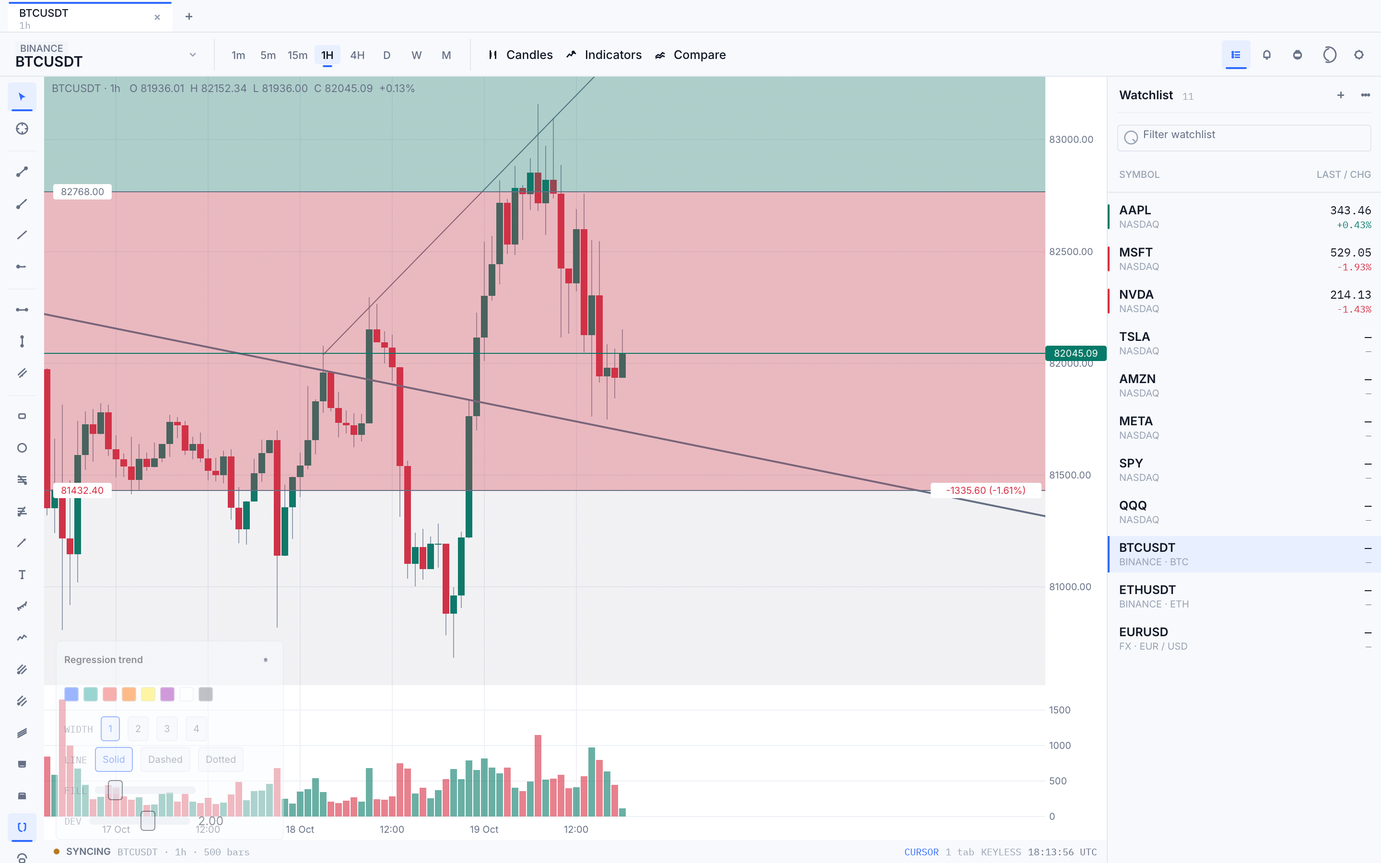
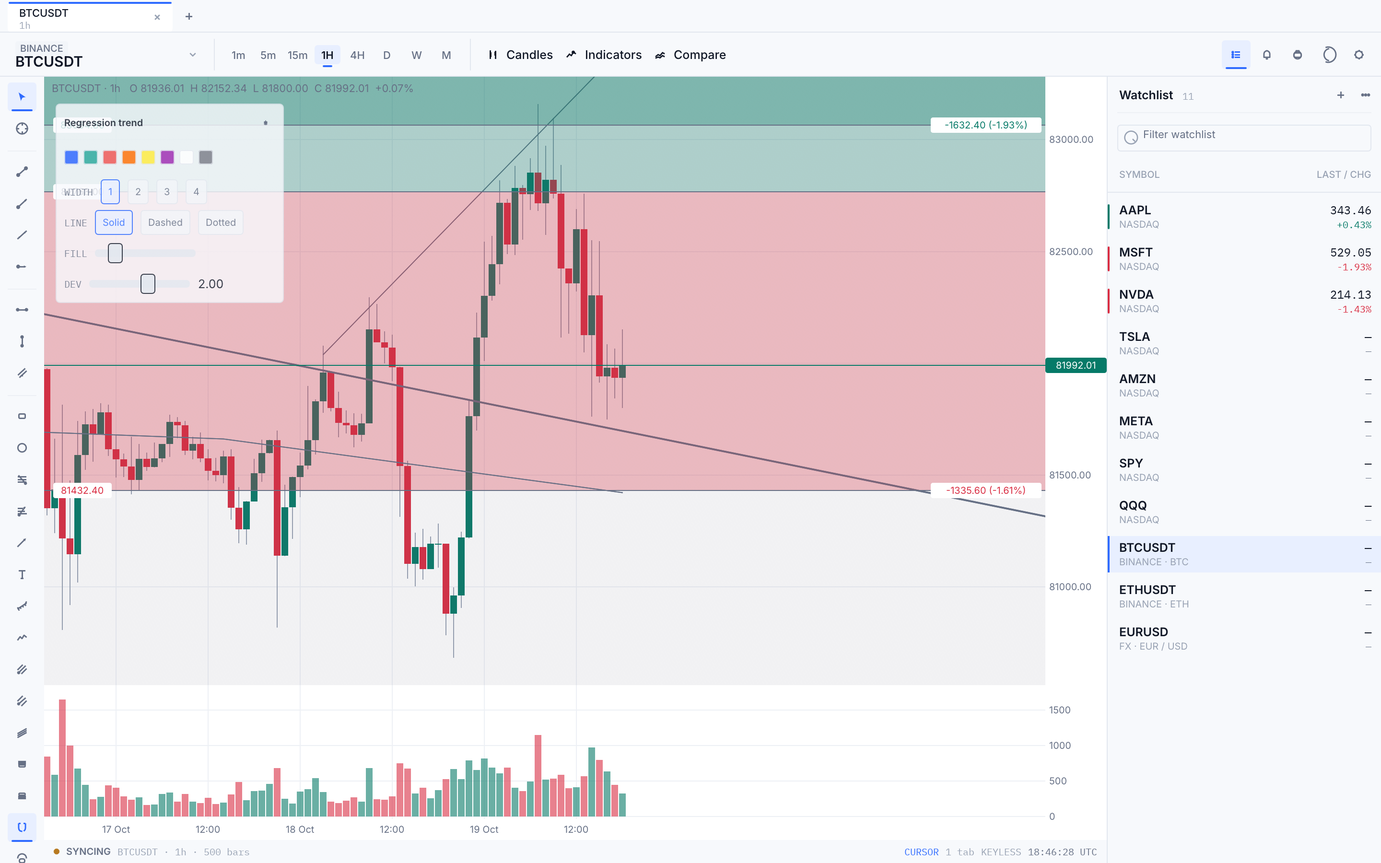
docs: phase 4 drawing tools, zoom modifier and wire-pinned study defaults
PARITY gains the study-defaults audit row; README scene list and 203-test
count; plan checkboxes all checked; ledger corrected (task 6 hash/crate);
dark+light phase-4 screenshots include short position and brush stroke.

diff --git a/docs/superpowers/plans/2026-10-19-phase4-drawing-tools.md b/docs/superpowers/plans/2026-10-19-phase4-drawing-tools.md
@@ -58,7 +58,7 @@
 - Produces: `DrawingKind::{Brush, Pitchfork, SchiffPitchfork, RegTrend, LongPosition, ShortPosition}` (ALL: 19); `DrawTool::{Brush, Pitchfork, SchiffPitchfork, RegTrend, LongPos, ShortPos}` (ALL: 22); `DrawingKind::is_drag(self) -> bool`; `Drawing { .., extra: Vec<Anchor>, reg_dev: f32 }`; `Draft { .., extra: Vec<Anchor> }`.
 - Consumes: existing `Anchor`, `DrawingStyle`, click/draft state machine.
 
-- [ ] **Step 1: Write failing metadata tests**
+- [x] **Step 1: Write failing metadata tests**
 
 ```rust
 #[test]
@@ -90,11 +90,11 @@ fn every_new_tool_maps_to_a_kind() {
 }
 ```
 
-- [ ] **Step 2: Run, verify compile failure** — `cargo test -p tickchart new_kinds` → cannot resolve.
+- [x] **Step 2: Run, verify compile failure** — `cargo test -p tickchart new_kinds` → cannot resolve.
 
-- [ ] **Step 3: Implement** the enum variants with `label()` strings per Global Constraints; `points()` arms (`Brush => 1` — completion is release-driven, not click-driven, so `is_drag` gates it); `supports_fill()` adds `RegTrend`; `DrawTool::kind()` arms. Extend `Draft` with `extra: Vec<Anchor>` (init `Vec::new()` at its construction sites in `DrawingToolState`); extend `Drawing` with `#[serde(default, skip_serializing_if = "Vec::is_empty")] pub extra: Vec<Anchor>` and `#[serde(default = "default_reg_dev")] pub reg_dev: f32` (`fn default_reg_dev() -> f32 { 1.0 }`); update `Drawing::new`/`with_c`/`last_anchor` (for `kind == Brush` with non-empty `extra`, return the last `extra` element); make `move_drawing` shift `extra` like `c`.
+- [x] **Step 3: Implement** the enum variants with `label()` strings per Global Constraints; `points()` arms (`Brush => 1` — completion is release-driven, not click-driven, so `is_drag` gates it); `supports_fill()` adds `RegTrend`; `DrawTool::kind()` arms. Extend `Draft` with `extra: Vec<Anchor>` (init `Vec::new()` at its construction sites in `DrawingToolState`); extend `Drawing` with `#[serde(default, skip_serializing_if = "Vec::is_empty")] pub extra: Vec<Anchor>` and `#[serde(default = "default_reg_dev")] pub reg_dev: f32` (`fn default_reg_dev() -> f32 { 1.0 }`); update `Drawing::new`/`with_c`/`last_anchor` (for `kind == Brush` with non-empty `extra`, return the last `extra` element); make `move_drawing` shift `extra` like `c`.
 
-- [ ] **Step 4: Write + run serde compat test**
+- [x] **Step 4: Write + run serde compat test**
 
 ```rust
 #[test]
@@ -111,7 +111,7 @@ fn drawing_json_from_before_phase4_loads_with_defaults() {
 
 Run: `cargo test -p tickchart` → all green (existing 66 + new).
 
-- [ ] **Step 5: Commit** — `git add crates/tickchart/src/drawings.rs && git commit -m "feat(chart): model for brush, pitchforks, regression trend and position tools"`
+- [x] **Step 5: Commit** — `git add crates/tickchart/src/drawings.rs && git commit -m "feat(chart): model for brush, pitchforks, regression trend and position tools"`
 
 ---
 
@@ -125,7 +125,7 @@ Run: `cargo test -p tickchart` → all green (existing 66 + new).
 - Produces: `pub fn pitchfork_lines(a: Pos2, b: Pos2, c: Pos2, schiff: bool, plot: Rect) -> Option<[(Pos2, Pos2); 3]>` (median first); `pub fn ols_fit(y: &[f64]) -> Option<(f64, f64, f64)>` (slope, intercept, sigma = RMS residual; `None` if `y.len() < 2`); `Drawing::reg_geometry(&self, cd: &Candles, view: &View, axis: &PriceAxis, plot: Rect) -> Option<(Pos2, Pos2, f32)>` (line endpoints + band half-width in px); `pub fn position_rr(entry: f64, target: f64, stop: f64) -> Option<f64>`; `pub fn position_delta(entry: f64, level: f64) -> String`.
 - Consumes: `clip_line`, `nearest_index`, `anchor_pos`, `crate::barfmt::fmt_price`.
 
-- [ ] **Step 1: Write failing tests** (pure math, exact values)
+- [x] **Step 1: Write failing tests** (pure math, exact values)
 
 ```rust
 #[test]
@@ -191,13 +191,13 @@ fn position_rr_and_delta_format() {
 }
 ```
 
-- [ ] **Step 2: Run to verify failure** — `cargo test -p tickchart pitchfork` etc. fail to compile.
+- [x] **Step 2: Run to verify failure** — `cargo test -p tickchart pitchfork` etc. fail to compile.
 
-- [ ] **Step 3: Implement** per signatures. `pitchfork_lines`: `m = ((b + c) * 0.5)`, `d = m - a`; `None` when `d.length_sq() < 1e-9` **or** `(b - c).length_sq() < 1e-9`; handle `h = if schiff { a + d * 0.5 } else { a }`, sides `s1 = if schiff { a + (b - a) * 0.5 } else { b }`, `s2 = if schiff { a + (c - a) * 0.5 } else { c }`; each line `clip_line(p, p + d, plot)`; `None` if any clip fails. [INFERENCE: Schiff variant = fork whose median sits at `a + d/2` with side lines through midpoints of `P1P2`/`P1P3` — standard Mudge/Schiff construction.] `ols_fit` over indices `0..len` (ordinary least squares, sigma = sqrt(mean squared residual)). `reg_geometry`: `i0..=i1` via `nearest_index(a.t)`/`nearest_index(b.t)` (swap so `i0 <= i1`); `y = cd.c[i0..=i1]`; `None` if span `< 2`; endpoints at `x_of(i0)`/`x_of(i1)` with `axis.y_of(intercept)` / `axis.y_of(intercept + slope*(i1 - i0))`; band half-width px `= (axis.y_of(mid) - axis.y_of(mid + sigma * reg_dev)).abs()` at the midpoint price `mid` (linear axis ⇒ constant vertical offset). `position_rr`: `Some((target - entry) / (entry - stop))`, guarded `|entry - stop| > 1e-9`; `None` when the ratio would be non-positive or non-finite. `position_delta(entry, level)`: `"{delta:+.2} ({pct:+.2}%)"` via plain formatting (ASCII signs; `entry == 0` omits the percent part).
+- [x] **Step 3: Implement** per signatures. `pitchfork_lines`: `m = ((b + c) * 0.5)`, `d = m - a`; `None` when `d.length_sq() < 1e-9` **or** `(b - c).length_sq() < 1e-9`; handle `h = if schiff { a + d * 0.5 } else { a }`, sides `s1 = if schiff { a + (b - a) * 0.5 } else { b }`, `s2 = if schiff { a + (c - a) * 0.5 } else { c }`; each line `clip_line(p, p + d, plot)`; `None` if any clip fails. [INFERENCE: Schiff variant = fork whose median sits at `a + d/2` with side lines through midpoints of `P1P2`/`P1P3` — standard Mudge/Schiff construction.] `ols_fit` over indices `0..len` (ordinary least squares, sigma = sqrt(mean squared residual)). `reg_geometry`: `i0..=i1` via `nearest_index(a.t)`/`nearest_index(b.t)` (swap so `i0 <= i1`); `y = cd.c[i0..=i1]`; `None` if span `< 2`; endpoints at `x_of(i0)`/`x_of(i1)` with `axis.y_of(intercept)` / `axis.y_of(intercept + slope*(i1 - i0))`; band half-width px `= (axis.y_of(mid) - axis.y_of(mid + sigma * reg_dev)).abs()` at the midpoint price `mid` (linear axis ⇒ constant vertical offset). `position_rr`: `Some((target - entry) / (entry - stop))`, guarded `|entry - stop| > 1e-9`; `None` when the ratio would be non-positive or non-finite. `position_delta(entry, level)`: `"{delta:+.2} ({pct:+.2}%)"` via plain formatting (ASCII signs; `entry == 0` omits the percent part).
 
-- [ ] **Step 4: Extend `Drawing::hit`** — `Brush`: min `distance_to_segment` over consecutive mapped points of `a + extra` (fallback `a..b` when `extra` empty) ≤ `TOL`; `Pitchfork`/`SchiffPitchfork`: any of three clipped lines ≤ `TOL`; `RegTrend`: `|p.y - y_line(x)|` within `max(TOL, band_half)` and `x` between endpoints; `LongPosition | ShortPosition`: pointer inside the band spanned by stop/target y (both orders) at `x ≥` entry x. Add hit tests: brush hits a middle vertex but not a far point; long position hits inside the box, misses outside the stop-target band; regression hit inside band.
+- [x] **Step 4: Extend `Drawing::hit`** — `Brush`: min `distance_to_segment` over consecutive mapped points of `a + extra` (fallback `a..b` when `extra` empty) ≤ `TOL`; `Pitchfork`/`SchiffPitchfork`: any of three clipped lines ≤ `TOL`; `RegTrend`: `|p.y - y_line(x)|` within `max(TOL, band_half)` and `x` between endpoints; `LongPosition | ShortPosition`: pointer inside the band spanned by stop/target y (both orders) at `x ≥` entry x. Add hit tests: brush hits a middle vertex but not a far point; long position hits inside the box, misses outside the stop-target band; regression hit inside band.
 
-- [ ] **Step 5: Run tests green** — `cargo test -p tickchart`; then commit `feat(chart): geometry and hit tests for phase-4 drawings`.
+- [x] **Step 5: Run tests green** — `cargo test -p tickchart`; then commit `feat(chart): geometry and hit tests for phase-4 drawings`.
 
 ---
 
@@ -211,18 +211,18 @@ fn position_rr_and_delta_format() {
 - Consumes: Task 2 geometry; `Palette.up/down`; `dash_spec`.
 - Produces: `StyleEdit::Deviation(f32)` applied as `d.reg_dev = v.clamp(0.5, 3.0)`; `fn position_colors(d: &Drawing, pal: &Palette) -> (Color32, Color32)` — profit/loss colors: `style.color` when set (used for both strokes), else `pal.up`/`pal.down`.
 
-- [ ] **Step 1: Write failing edit test** — `apply_style_edit(&mut d, StyleEdit::Deviation(9.0))` on a `RegTrend` drawing ⇒ `reg_dev == 3.0`.
+- [x] **Step 1: Write failing edit test** — `apply_style_edit(&mut d, StyleEdit::Deviation(9.0))` on a `RegTrend` drawing ⇒ `reg_dev == 3.0`.
 
-- [ ] **Step 2: Verify it fails** (`cargo test -p tickchart`, cannot build).
+- [x] **Step 2: Verify it fails** (`cargo test -p tickchart`, cannot build).
 
-- [ ] **Step 3: Implement paint:**
+- [x] **Step 3: Implement paint:**
   - `Brush`: open `PathShape { closed: false }` over mapped `a + extra` (drop the tail at the first unmapped anchor; skip when fewer than two mapped points); style stroke; selection dots on first/last mapped points only.
   - `Pitchfork`/`SchiffPitchfork`: median solid; both side lines dashed (`dash_spec(Dashed)` regardless of `style.line` — TV convention, inference-grade). Fill polygon `handle → side1_far → side2_far` when `style.fill`; additionally set `fill = false` default on finish for these kinds (helper `fn kind_defaults(kind: DrawingKind) -> DrawingStyle` used by `DrawingToolState::finish` — TV pitchforks default unfilled).
   - `RegTrend`: center line + two band lines at `y ± half` (dotted) + `convex_polygon` band fill at `fill_opacity` when `style.fill`.
   - `LongPosition/ShortPosition`: horizontal strokes at entry/target/stop from `entry.x.max(plot.min.x)` to `plot.max.x`; profit rect `entry→target`, loss rect `stop→entry`, fills at opacity 40 with profit/loss colors (short: swapped semantics, same geometry); `fmt_price` tag left at each level (small bg chip); `position_delta` at right edge, right-aligned inside `plot` (`plot.max.x - 4`); center chip `R/R 1 : {rr:.2}` or `R/R —` when `position_rr` is `None`.
   - Brush draft: live polyline through `draft.extra` in the draft branch (stroke `pal.line`, existing draft styling).
 
-- [ ] **Step 4: Green + commit** — `cargo test -p tickchart && cargo clippy -p tickchart --all-targets`; commit `feat(chart): painting for brush, pitchforks, regression trend and positions`.
+- [x] **Step 4: Green + commit** — `cargo test -p tickchart && cargo clippy -p tickchart --all-targets`; commit `feat(chart): painting for brush, pitchforks, regression trend and positions`.
 
 ---
 
@@ -236,23 +236,23 @@ fn position_rr_and_delta_format() {
 - Produces: `ChartState.price_zoom: Option<(f64, f64)>` (lo, hi; `None` default), `ChartState.zoom_sel: Option<(Pos2, Pos2)>`, `ChartState.brush_prev: Option<Pos2>`; `View::fit(i0: usize, i1: usize) -> Self`; `DrawingToolState::finish_brush(&mut self) -> Option<Drawing>`; Escape additionally clears `zoom_sel` + `price_zoom`.
 - Consumes: `anchor_at`, `View::index_at/fit`, `PriceAxis::price_of`, `st.locked`, `popup_rect` guard, existing click/drag paths.
 
-- [ ] **Step 1: Failing `View::fit` test** — `let v = View::new(400.0, 100).fit(60, 80);` ⇒ spacing ≈ `400/21` within clamp, `x_of(80) > x_of(60)`, `x_of(80) <= 400.0`; wide fit `View::new(400.0, 100).fit(0, 99)` same bounds sanity; result equals `fit(..).clamped()`.
+- [x] **Step 1: Failing `View::fit` test** — `let v = View::new(400.0, 100).fit(60, 80);` ⇒ spacing ≈ `400/21` within clamp, `x_of(80) > x_of(60)`, `x_of(80) <= 400.0`; wide fit `View::new(400.0, 100).fit(0, 99)` same bounds sanity; result equals `fit(..).clamped()`.
 
-- [ ] **Step 2: Failing interaction tests** (existing `click`/`frame` harness style):
+- [x] **Step 2: Failing interaction tests** (existing `click`/`frame` harness style):
   1. brush drag creates one drawing: `set_tool(Brush)`; pointer press, two moved steps ≥ 3px apart, release ⇒ `ev.changed`, `st.drawings.len() == 1`, kind `Brush`, `extra.len() >= 2`; press+release without movement ⇒ no drawing.
   2. locked brush creates nothing.
   3. shift-drag zoom: press with `egui::Modifiers { shift: true, ..Default::default() }` and cursor tool, move ~10 bars right + some px, release ⇒ `st.price_zoom` is `Some((lo, hi))` with `lo < hi`, spacing grew vs before, `zoom_sel == None`.
   4. Escape clears `price_zoom` (Key event like existing escape test).
   5. position tool completes on third click (mirror of the three-click channel test): after third click `st.drawings[0].kind == LongPosition` (tool `LongPos`) and `c.is_some()`.
 
-- [ ] **Step 3: Implement.**
+- [x] **Step 3: Implement.**
   - `bars.rs::fit`: `spacing = (width / (i1 - i0 + 1) as f32).clamp(MIN_SPACING, MAX_SPACING)`; `right_offset = (width - 8.0 - (count - 1 - i1) as f32 * spacing).max(0.0)`; return `self.clamped()` after assigning.
   - `handle_input` brush: when tool is `Brush` (and `!locked`, pointer in price rect, not over popup): press ⇒ seed `Draft { kind: Brush, a, b: a, extra: vec![a], count: 1 }` + `brush_prev = Some(pos)`; drag while pressed ⇒ `anchor_at`, and if `(pos - brush_prev).length() >= 2.0` push anchor onto `draft.extra`, update `brush_prev`; release ⇒ if `extra.len() >= 2` call `finish_brush()` (takes draft, bumps `next_id`, `Drawing { kind: Brush, a, b: a, extra, ..default style }`), set `selected` + `ev.changed`. Suppress hover-only `update_draft` for brush drafts.
   - Shift zoom: press with `shift` held, no drawing tool (`!tool.is_tool()`), pointer in price rect ⇒ `zoom_sel = Some((pos, pos))`; update on drag; release with width `>= 8.0` ⇒ `i0 = index_at(min.x)`, `i1 = index_at(max.x)` (both required, `i0 < i1`), then `st.view = st.view.fit(i0, i1)` and `price_zoom = Some((axis.price_of(sel.max.y), axis.price_of(sel.min.y)))`; `zoom_sel = None` always on release. Paint live selection rect while `zoom_sel.is_some()` (crosshair color, ~10 alpha fill + 1px border).
   - Price override: in the price-pane axis path (`pane_axis` when the pane is the price pane), replace the computed `(lo, hi)` with `price_zoom` when set. Existing panes/log-scale unchanged otherwise. Escape handler additionally clears `zoom_sel` + `price_zoom` (and keeps existing draft/selection/measure clearing).
   - `hit_drawing`/drag pick up new kinds automatically through `Drawing::hit`.
 
-- [ ] **Step 4: Green + commit** — `cargo test -p tickchart && cargo clippy -p tickchart --all-targets`; commit `feat(chart): brush drag capture and shift-rectangle zoom`.
+- [x] **Step 4: Green + commit** — `cargo test -p tickchart && cargo clippy -p tickchart --all-targets`; commit `feat(chart): brush drag capture and shift-rectangle zoom`.
 
 ---
 
@@ -266,13 +266,13 @@ fn position_rr_and_delta_format() {
 - Consumes: `DrawTool::{Brush, Pitchfork, SchiffPitchfork, RegTrend, LongPos, ShortPos}`, `StyleEdit::Deviation`.
 - Produces: `Tool::{Brush, Pitchfork, SchiffPitchfork, RegTrend, LongPosition, ShortPosition}` (ALL: 22), `Icon::{Brush, Pitchfork, RegTrend, LongPosition, ShortPosition}`; labels per Global Constraints; `SchiffPitchfork` reuses `Icon::Pitchfork`.
 
-- [ ] **Step 1: Extend the map test first** — keep the `Tool::ALL` iteration (new variants auto-assert mapped-to-non-Cursor); add `assert_eq!(draw_tool(Tool::LongPosition), DrawTool::LongPos);`, `assert_eq!(draw_tool(Tool::Brush), DrawTool::Brush);`, `assert_eq!(Tool::ALL.len(), 22);`. Verify FAIL.
+- [x] **Step 1: Extend the map test first** — keep the `Tool::ALL` iteration (new variants auto-assert mapped-to-non-Cursor); add `assert_eq!(draw_tool(Tool::LongPosition), DrawTool::LongPos);`, `assert_eq!(draw_tool(Tool::Brush), DrawTool::Brush);`, `assert_eq!(Tool::ALL.len(), 22);`. Verify FAIL.
 
-- [ ] **Step 2: Implement** `Tool` variants + `icon()`/`label()`/`draw_tool()` arms; icon vector paths on the existing 24×24 primitives: Brush = slanted pen nib; Pitchfork = three rising strokes converging to the left handle; RegTrend = diagonal with two shorter parallel dash pairs; LongPosition = box with up-wedge; ShortPosition = vertical mirror. Rail layout unchanged (iterates `Tool::ALL`); magnet/lock/crosshair buttons unchanged.
+- [x] **Step 2: Implement** `Tool` variants + `icon()`/`label()`/`draw_tool()` arms; icon vector paths on the existing 24×24 primitives: Brush = slanted pen nib; Pitchfork = three rising strokes converging to the left handle; RegTrend = diagonal with two shorter parallel dash pairs; LongPosition = box with up-wedge; ShortPosition = vertical mirror. Rail layout unchanged (iterates `Tool::ALL`); magnet/lock/crosshair buttons unchanged.
 
-- [ ] **Step 3: Deviation control** — in `drawing_toolbar`, when the selected drawing's kind is `RegTrend`, add a compact `Deviation` slider row `0.5..=3.0` emitting `StyleEdit::Deviation` (copy the `FillOpacity` row pattern).
+- [x] **Step 3: Deviation control** — in `drawing_toolbar`, when the selected drawing's kind is `RegTrend`, add a compact `Deviation` slider row `0.5..=3.0` emitting `StyleEdit::Deviation` (copy the `FillOpacity` row pattern).
 
-- [ ] **Step 4: Green + commit** — `cargo test -p app && cargo clippy -p app --all-targets`; commit `feat(app): phase-4 rail tools, icons and deviation control`.
+- [x] **Step 4: Green + commit** — `cargo test -p app && cargo clippy -p app --all-targets`; commit `feat(app): phase-4 rail tools, icons and deviation control`.
 
 ---
 
@@ -287,13 +287,13 @@ fn position_rr_and_delta_format() {
 - Produces: evidence JSON `{ "<meta_id>": {"name": "...", "inputs": {…}} }` restricted to ids matching registry studies (`"missing"` markers for unmatched, so coverage is auditable); test `registry_defaults_match_tv_wire`.
 - Consumes: `ta::registry::defs()`; source payload `/tmp/tv-studies-metadata.json` (machine-captured; the trimmed subset is committed so the test runs anywhere).
 
-- [ ] **Step 1: Extract trimmed evidence** — for every `defs()` entry, resolve the metadata id (exact prefix match, preferred packs `tv-basicstudies-280` > `tv-corestudies-50` > `tv-prostudies-78`; id mapping follows the registry's TradingView ids — e.g. `Rsi→RSI`, `Psar→PSAR`, `Adx→DM`, `DonchianChannels→DONCH`, `Kst→KST`, `Vwap→VWAP`, `Macd→MACD`). Emit `docs/evidence/tv-studies-defaults.json` with each matched id's `name` + `defaults.inputs`; unmatched registry ids listed with `"missing": true`.
+- [x] **Step 1: Extract trimmed evidence** — for every `defs()` entry, resolve the metadata id (exact prefix match, preferred packs `tv-basicstudies-280` > `tv-corestudies-50` > `tv-prostudies-78`; id mapping follows the registry's TradingView ids — e.g. `Rsi→RSI`, `Psar→PSAR`, `Adx→DM`, `DonchianChannels→DONCH`, `Kst→KST`, `Vwap→VWAP`, `Macd→MACD`). Emit `docs/evidence/tv-studies-defaults.json` with each matched id's `name` + `defaults.inputs`; unmatched registry ids listed with `"missing": true`.
 
-- [ ] **Step 2: Write `crates/ta/tests/tv_defaults.rs`** — load via `concat!(env!("CARGO_MANIFEST_DIR"), "/../../docs/evidence/tv-studies-defaults.json")`; for every def whose evidence exists and whose input key maps to a registry param (`length`, `increment`, `max value`, `start`, ROCLen…, `SigLen`, known enum strings like `"Anchor Period":"Session"`), compare against the registry default; failure messages carry the indicator id + key + both values. Run: expect drift failures listed per indicator.
+- [x] **Step 2: Write `crates/ta/tests/tv_defaults.rs`** — load via `concat!(env!("CARGO_MANIFEST_DIR"), "/../../docs/evidence/tv-studies-defaults.json")`; for every def whose evidence exists and whose input key maps to a registry param (`length`, `increment`, `max value`, `start`, ROCLen…, `SigLen`, known enum strings like `"Anchor Period":"Session"`), compare against the registry default; failure messages carry the indicator id + key + both values. Run: expect drift failures listed per indicator.
 
-- [ ] **Step 3: Fix registry defaults** to the observed wire values (already spot-verified: RSI `14`, MACD `12/26/9`, PSAR `0.02/0.02/0.2`, VWAP `Session`/`hlc3`, DONCH `20`, KST `10,15,20,30 / 10,10,10,15 / 9`). Where golden tests pinned old values, update those goldens (wire = source-grade observed). Re-run full `cargo test -p ta`.
+- [x] **Step 3: Fix registry defaults** to the observed wire values (already spot-verified: RSI `14`, MACD `12/26/9`, PSAR `0.02/0.02/0.2`, VWAP `Session`/`hlc3`, DONCH `20`, KST `10,15,20,30 / 10,10,10,15 / 9`). Where golden tests pinned old values, update those goldens (wire = source-grade observed). Re-run full `cargo test -p ta`.
 
-- [ ] **Step 4: Green + commit** — `git add docs/evidence crates/ta && git commit -m "test(ta): pin study defaults against TradingView studies_metadata evidence"`.
+- [x] **Step 4: Green + commit** — `git add docs/evidence crates/ta && git commit -m "test(ta): pin study defaults against TradingView studies_metadata evidence"`.
 
 ---
 
@@ -302,13 +302,13 @@ fn position_rr_and_delta_format() {
 **Files:**
 - Modify: `crates/app/src/app.rs` (`TICKVIEW_SCENE=phase4`), `PARITY.md`, `README.md`, this plan, `.superpowers/sdd/2026-10-19-phase4-drawing-tools/progress.md`
 
-- [ ] **Step 1: Scene hook** — `TICKVIEW_SCENE=phase4` seeds: pitchfork + Schiff pitchfork, `RegTrend` (`reg_dev 2.0`, fill on), long position (entry/target/stop with RR ≈ 2), short position, brush polyline (≥ 8 points), one selected drawing (toolbar visible). Extend the existing `"measure"` match arm.
+- [x] **Step 1: Scene hook** — `TICKVIEW_SCENE=phase4` seeds: pitchfork + Schiff pitchfork, `RegTrend` (`reg_dev 2.0`, fill on), long position (entry/target/stop with RR ≈ 2), short position, brush polyline (≥ 8 points), one selected drawing (toolbar visible). Extend the existing `"measure"` match arm.
 
-- [ ] **Step 2: Full verification** — `cargo fmt --all -- --check && cargo test --workspace && cargo clippy --workspace --all-targets && cargo build --release -p tickview`. Expected: all green.
+- [x] **Step 2: Full verification** — `cargo fmt --all -- --check && cargo test --workspace && cargo clippy --workspace --all-targets && cargo build --release -p tickview`. Expected: all green.
 
-- [ ] **Step 3: Screenshots** — `TICKVIEW_SNAPSHOT` at 1440×900, dark + light (`TICKVIEW_THEME`), scene `phase4`; save `docs/screenshots/phase4-drawings-{dark,light}.png`; read and inspect both: fork geometry, band/position fills, right-edge label clamp, brush smoothness, rail icon legibility, toolbar placement.
+- [x] **Step 3: Screenshots** — `TICKVIEW_SNAPSHOT` at 1440×900, dark + light (`TICKVIEW_THEME`), scene `phase4`; save `docs/screenshots/phase4-drawings-{dark,light}.png`; read and inspect both: fork geometry, band/position fills, right-edge label clamp, brush smoothness, rail icon legibility, toolbar placement.
 
-- [ ] **Step 4: Docs + ledger** — PARITY: drawing-tools row gains the five tools + zoom modifier; note inference-grade constants pending `analyze-web-bundle` re-verification when network allows; studies row notes wire-pinned defaults. README: updated tool list + test counts. Append task→commit ledger here and to `progress.md`; commit `docs: phase 4 drawing tools, zoom modifier and wire-pinned study defaults`.
+- [x] **Step 4: Docs + ledger** — PARITY: drawing-tools row gains the five tools + zoom modifier; note inference-grade constants pending `analyze-web-bundle` re-verification when network allows; studies row notes wire-pinned defaults. README: updated tool list + test counts. Append task→commit ledger here and to `progress.md`; commit `docs: phase 4 drawing tools, zoom modifier and wire-pinned study defaults`.
 
 ---
 

diff --git a/PARITY.md b/PARITY.md
@@ -14,6 +14,7 @@ full web platform.
 | Intervals | Partial | 1m, 5m, 15m, 1H, 4H, 1D, 1W, 1M; no seconds or tick bars |
 | Chart styles | Done | Candles, hollow candles, bars, columns, line, area, baseline, Heikin Ashi |
 | Indicator browser and settings | Partial | 66 studies, per-param editor, persistent; no Pine/custom studies |
+| Study default audit | Done | 42 studies' numeric/bool defaults pinned against TradingView Desktop 3.4.1.8194 `studies_metadata` wire payload (`docs/evidence/tv-studies-defaults.json`); audit fixed 11 drifts: VWMA length 20, Keltner mult 1, Stoch %K smoothing 3, CMO 9, KST 10/10/10/15 + signal 9, TRIX 18, HV 10; enum inputs recorded for review |
 | Right watchlist | Partial | Add/remove, filter, selection, quote change bars, context menu; no sections or sparklines |
 | Alerts | Partial | Price crossing above/below, polling, persisted; no sounds or notifications |
 | Drawing tools | Done | Trend/ray/extended line, horizontal ray, H/V line, parallel channel, rectangle, ellipse, fib retracement, fib extension, arrow, note, measure, freehand brush, pitchfork, Schiff pitchfork, regression trend (2σ default, deviation slider), long/short position tool with R/R and delta labels; select/move/delete, per-drawing style toolbar, lock, magnet, per-symbol persistence; shift-drag rectangle zoom (price + time), Esc resets. Deferred: crosshair-rectangle modifier, brush/pitchfork auto-styles beyond color/width/line |

diff --git a/README.md b/README.md
@@ -9,7 +9,7 @@ painter.
 
 ```sh
 cargo run --release -p tickview        # GUI
-cargo test --workspace               # 177 unit/golden tests
+cargo test --workspace               # 203 unit/golden tests
 cargo clippy --workspace --all-targets
 ```
 
@@ -57,7 +57,7 @@ curated offline symbol index so search works before the network responds.
 |---|---|
 | `TICKVIEW_SNAPSHOT=/path/out.bmp` | capture the window, then exit |
 | `TICKVIEW_THEME=dark\|light\|system` | override the saved theme |
-| `TICKVIEW_SCENE=search\|indicators\|settings\|alerts\|editor\|compare\|drawings\|measure` | open a dialog or preset chart state for visual QA |
+| `TICKVIEW_SCENE=search\|indicators\|settings\|alerts\|editor\|compare\|drawings\|measure\|phase4drawings\|zoomrect` | open a dialog or preset chart state for visual QA |
 | `TICKVIEW_INDICATORS="Relative Strength Index (RSI),MACD"` | preload studies |
 
 ## Architecture
@@ -71,7 +71,7 @@ curated offline symbol index so search works before the network responds.
 
 ## Verification
 
-`cargo test --workspace` passes 202 tests and `cargo clippy --workspace
+`cargo test --workspace` passes 203 tests and `cargo clippy --workspace
 --all-targets` is clean. Dark and light builds were captured at 1440×900 and
 visually checked for the shell, tab strip, command bar, watchlist, status bar,
 RSI separate pane, indicator editor, settings, alerts and symbol search. Phase 2
